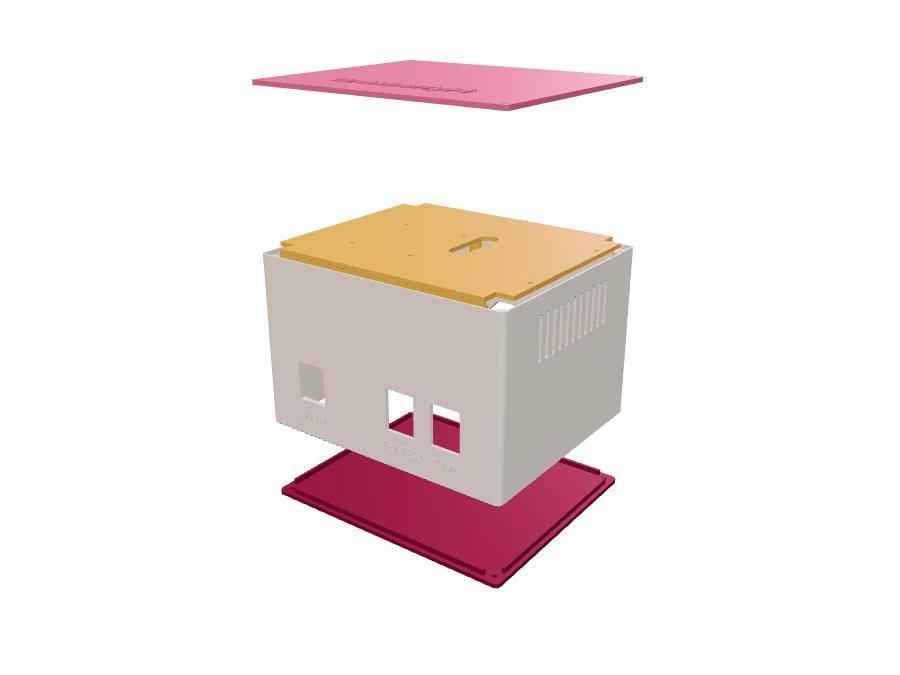
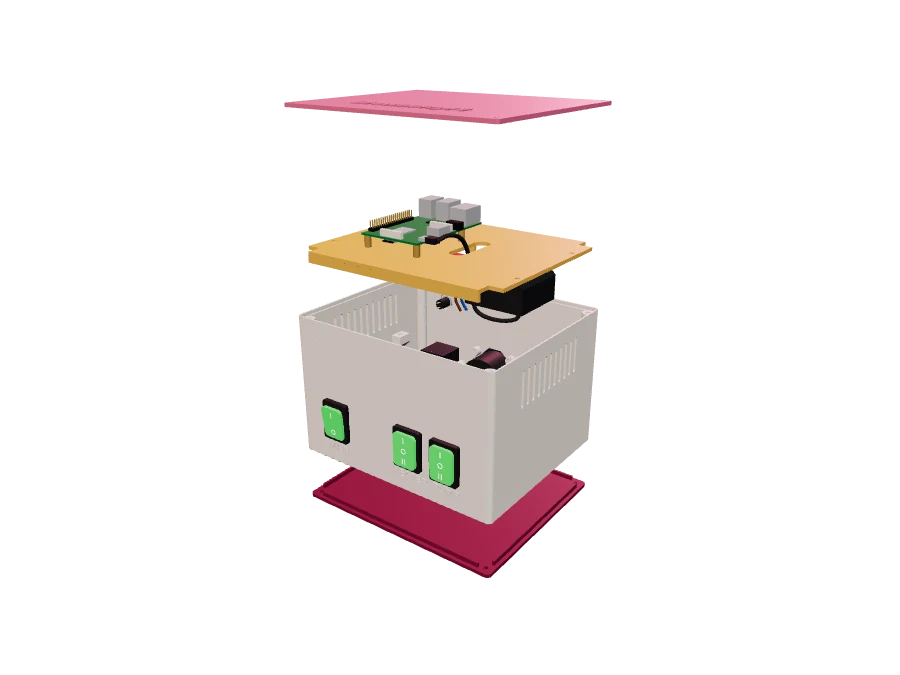
site: components shown in the 3D view from the start; main page case renders with components
Claude-Session: https://claude.ai/code/session_01CFGdCWnQRLXmkcSybAmDGC

Changed region(s): [[0.28, 0.28, 0.7156, 0.8711], [0.28, 0.0622, 0.7156, 0.1867], [0.56, 0.7156, 0.5911, 0.7467]]

diff --git a/site/case3d.js b/site/case3d.js
@@ -81,7 +81,7 @@ export async function mountCase(host, { reducedMotion = false } = {}) {
   const centreY = model.position.y;
   const size = box.getSize(new THREE.Vector3()).length();
 
-  // The bought components, hidden until the button shows them.
+  // The bought components, shown from the start; the button hides them.
   const components = buildComponents();
   model.add(components.divider, components.body);
   const setOpacity = (opacity) => {
@@ -92,7 +92,7 @@ export async function mountCase(host, { reducedMotion = false } = {}) {
     }
     components.divider.visible = components.body.visible = opacity > 0;
   };
-  setOpacity(0);
+  setOpacity(1);
 
   camera.position.set(size * 1.25, size * 0.85, size * 1.7);
   camera.lookAt(0, 0, 0);
@@ -124,8 +124,8 @@ export async function mountCase(host, { reducedMotion = false } = {}) {
     button.textContent = explodeTarget ? "Assemble" : "Explode";
     wake();
   });
-  let shown = 0;
-  let shownTarget = 0;
+  let shown = 1;
+  let shownTarget = 1;
   partsButton.addEventListener("click", () => {
     shownTarget = shownTarget ? 0 : 1;
     partsButton.setAttribute("aria-pressed", String(Boolean(shownTarget)));

diff --git a/site/index.html b/site/index.html
@@ -138,7 +138,7 @@
         </header>
         <ol class="steps">
           <li class="step card reveal">
-            <span class="step__visual band-dark"><img class="step__case" src="img/case-exploded.webp" width="900" height="675" loading="lazy" decoding="async" alt="The case with its lids and divider pulled apart"></span>
+            <span class="step__visual band-dark"><img class="step__case" src="img/case-exploded.webp" width="900" height="675" loading="lazy" decoding="async" alt="The case with its lids and divider pulled apart: the Raspberry Pi on the divider, the relay board and power adapter under it, switches at the front and sockets at the back"></span>
             <span class="step__num">1</span>
             <h3>Print, assemble and wire</h3>
             <p>Print the case, assemble the Pi, the relay board and the power parts in it, and wire the probe and the buzzer. The wiring guide shows every pin.</p>

diff --git a/site/case.html b/site/case.html
@@ -70,7 +70,7 @@
                  alt="Render of the BrewberryPi case: a box with BrewberryPi on the lid and switches labelled MAIN, HEATER and PUMP">
             <div class="case-ui">
               <button class="btn btn--ghost btn--sm" id="case-explode" type="button" aria-pressed="false" hidden>Explode</button>
-              <button class="btn btn--ghost btn--sm" id="case-parts" type="button" aria-pressed="false" hidden>Show components</button>
+              <button class="btn btn--ghost btn--sm" id="case-parts" type="button" aria-pressed="true" hidden>Hide components</button>
               <span class="case-hint" hidden>Drag to turn</span>
             </div>
           </div>

diff --git a/README.md b/README.md
@@ -35,7 +35,7 @@ tokens) it may be text too.
 | `site/styles.css` | Colour tokens (from `brand/README.md`, light and `.band-dark`), layout | written by hand |
 | `site/main.js` | Scroll effects, the feature cards (`FEATURES`: add an entry to add a feature) | written by hand |
 | `site/case3d.js` | Interactive 3D view of the case (three.js), loaded when the section scrolls into view; part colours from the section's CSS | written by hand |
-| `site/components3d.js` | The bought components (Pi, relay board, adapter, switches, sockets, inlet, jack) for the 3D view, modelled from the dimensions and positions in the case spec; shown with the viewer's "Show components" button | written by hand; keep in step with `brewberrypi-case/02-specification/spec.md` |
+| `site/components3d.js` | The bought components (Pi, relay board, adapter, switches, sockets, inlet, jack) for the 3D view, modelled from the dimensions and positions in the case spec; shown from the start, hidden with the viewer's "Hide components" button | written by hand; keep in step with `brewberrypi-case/02-specification/spec.md` |
 | `site/img/app-*.webp` | Screenshots of the app | `tools/capture_screens.mjs` |
 | `site/img/case-still.webp`, `site/img/case-exploded.webp` | Stills of the 3D case for the main page (assembled, exploded) | `tools/render_case.mjs` |
 | `site/models/case-*.stl`, `site/img/case-assembly.png` | Case parts and the fallback render | `tools/sync_assets.sh` from `brewberrypi-case/04-stl` |
